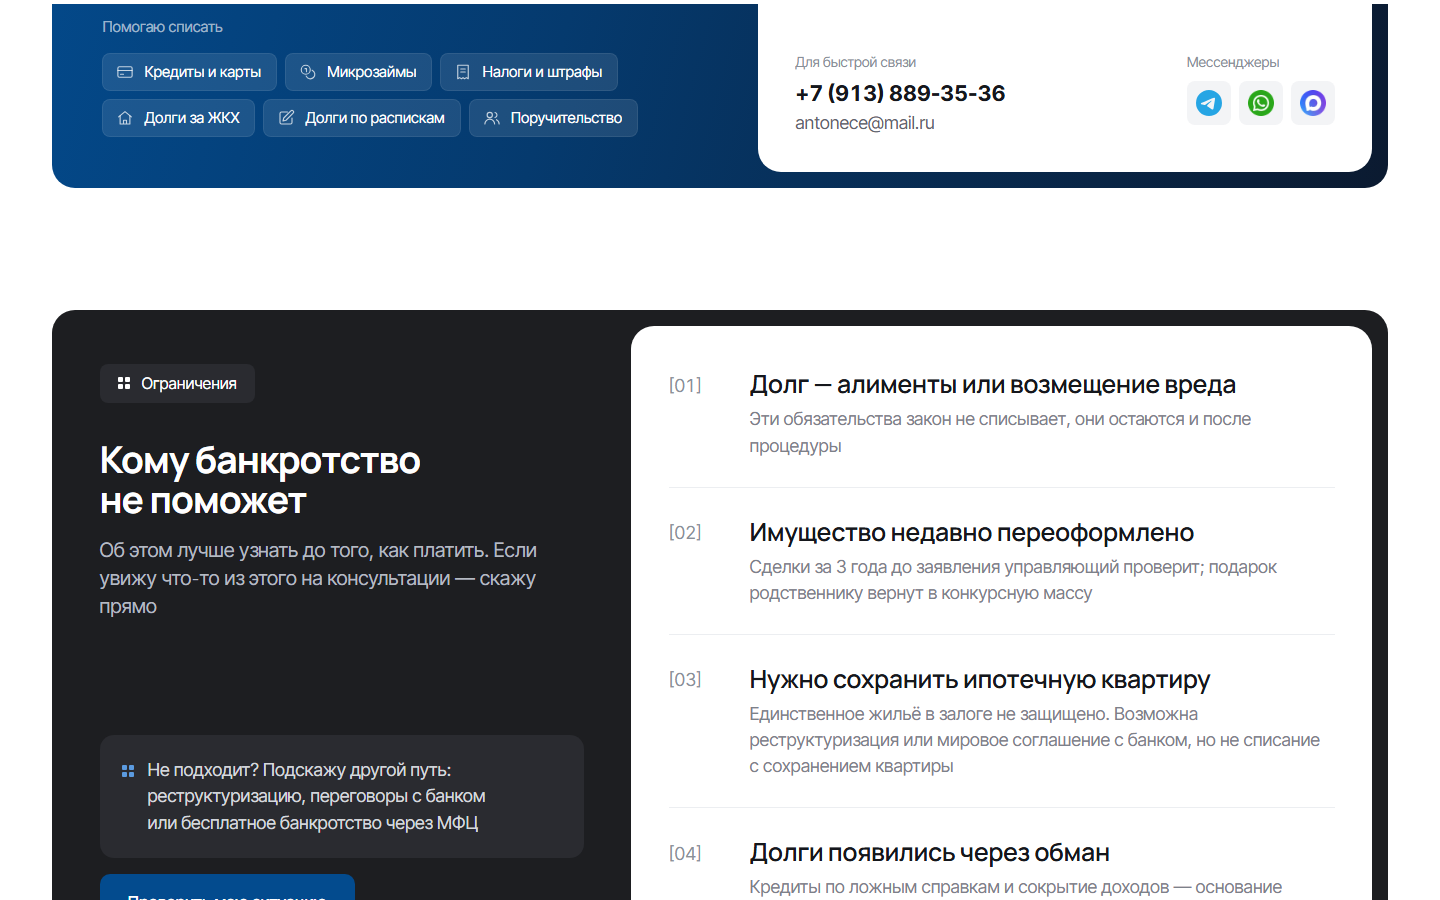
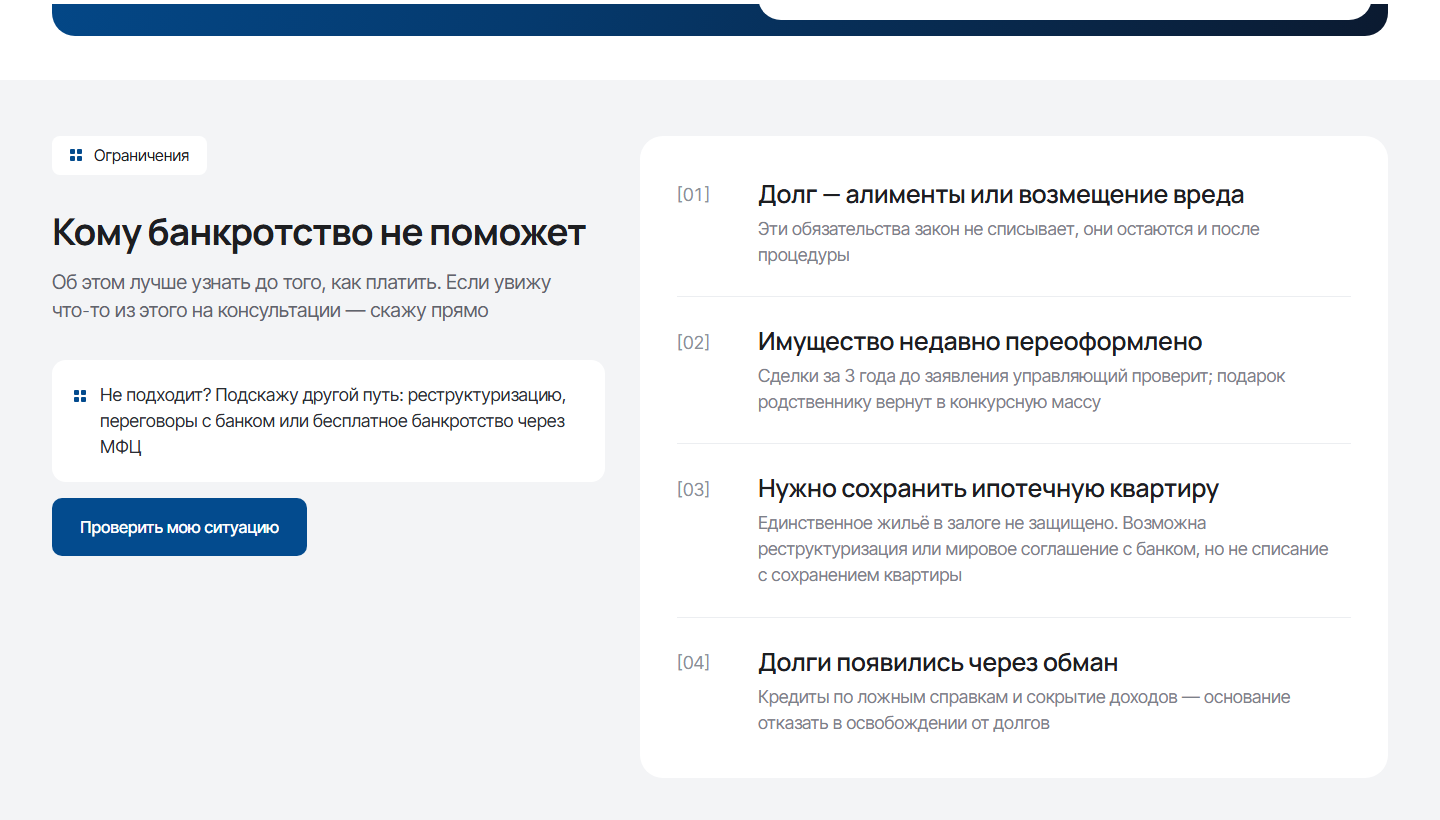
Одна почта, согласие на обработку ПД, уведомление о cookie, тёмный #1D1E21, «Кому не поможет» без тёмной подложки

diff --git a/src/data/site.ts b/src/data/site.ts
@@ -46,8 +46,9 @@ export const contacts = {
   phone2: '+7 (913) 889-35-36',
   phone2Href: 'tel:+79138893536',
   phone2E164: '+79138893536',
-  email: 'antonece@mail.ru',
-  email2: 'arbitomsk@gmail.com', // вторая почта, сообщила дизайнер 18.11.2026
+  // единственная почта для сайта — подтвердила дизайнер 18.11.2026 (antonece@mail.ru со старого сайта не используем)
+  email: 'arbitomsk@gmail.com',
+  email2: '',
   /** ◐ график из макета дизайнера (17.11.2026), подтвердить у Антонца; после подтверждения заполнить hoursSchema */
   hours: 'Пн–Пт с 9:00 до 18:00, по предварительной записи',
   hoursDays: 'Пн–Пт с 9:00 до 18:00',

diff --git a/src/styles/global.css b/src/styles/global.css
@@ -29,7 +29,7 @@
   --color-accent-dark: #7e3b12;
   --color-ok: #2f6b4f;
   --color-warn: #8a5a00;
-  --color-night: #141b26;
+  --color-night: #1d1e21;
 
   --radius-ctl: 10px;
   --radius-card: 14px;

diff --git a/public/lead-config.example.php b/public/lead-config.example.php
@@ -2,7 +2,9 @@
 // Скопируйте этот файл в lead-config.php (на хостинге) и заполните. lead-config.php закрыт от чтения через .htaccess.
 return [
     // Куда отправлять заявки письмом (пусто — не отправлять)
-    'mail_to' => 'antonece@mail.ru',
+    // Внимание: почтовый ящик за рубежом (Gmail) = трансграничная передача ПД (ст. 12 152-ФЗ, уведомление в РКН).
+    // Надёжнее российский ящик (Яндекс/Mail.ru) только для заявок.
+    'mail_to' => 'arbitomsk@gmail.com',
     // Telegram: создайте бота у @BotFather, напишите ему /start и узнайте chat_id (пусто — не отправлять)
     'telegram_bot_token' => '',
     'telegram_chat_id' => '',

diff --git a/seo/decisions.md b/seo/decisions.md
@@ -40,3 +40,4 @@
 | 18.11.2026 | Порядок главной: Первый экран → Для кого → Услуги → Этапы → Стоимость → Обо мне → Дела → Отзывы → Квиз → (Кому не подходит, Что сохранится, FAQ — по макетам) → Заявка. Цена поднята, квиз перенесён, чтобы два синих градиента не стояли рядом | Решение дизайнера | — | высокая |
 | 18.11.2026 | Номера дел на сайте замазаны «А67-****/2026» (maskCase в site.ts), ссылки «Проверить в картотеке» убраны; вместо них — название суда. Причина: по полному номеру в картотеке видно ФИО, рядом истории с деталями. Вернуть полные номера — после согласия клиентов/решения Антонца | Решение дизайнера | Полные номера | высокая |
 | 18.11.2026 | Форма и контакты по референсу дизайнера: синяя карточка с формой + белая «Контакты» с картой Яндекса (map-widget, метка по координатам из 2ГИС 56.483464, 84.971674; contacts.geo обновлён) | Референс дизайнера | — | средняя: карта в iframe не проверена в браузере (среда блокирует чужие iframe) |
+| 18.11.2026 | Почта сайта — только arbitomsk@gmail.com (antonece@mail.ru со старого сайта убрана). Добавлены: страница «Согласие на обработку ПД» (отдельный документ, ссылка из галочки формы и футера), уведомление о cookie, раздел 7 «Cookies» в политике. Тёмный цвет везде #1D1E21. «Кому не поможет» — без тёмной подложки | Решения дизайнера | — | средняя: тексты документов — шаблон, согласовать с Антонцем; заявки на Gmail = трансграничная передача ПД |
